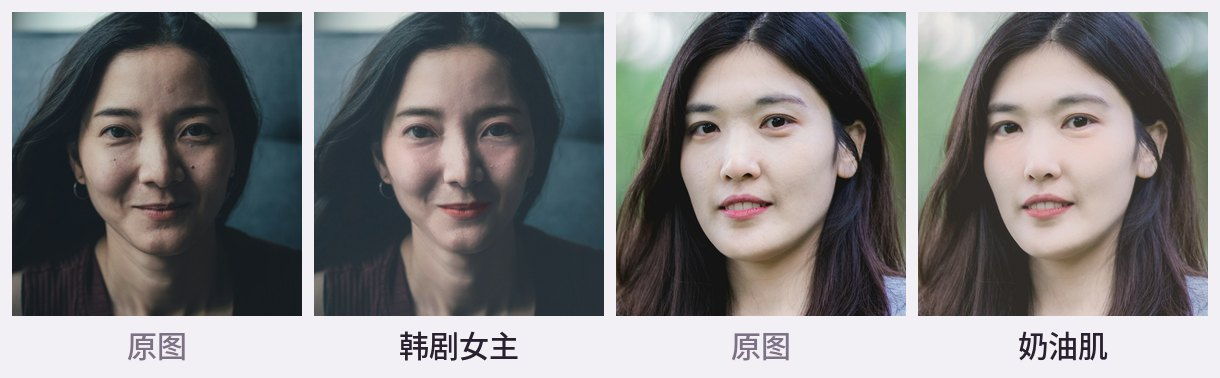
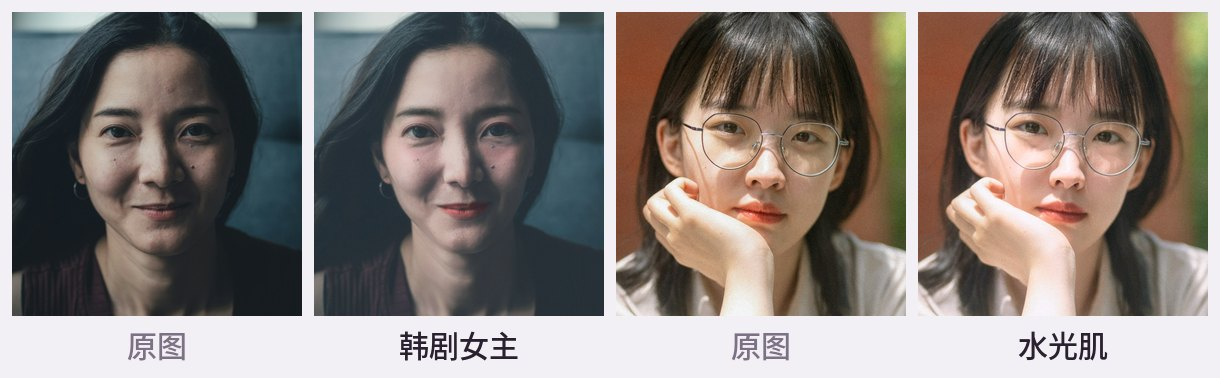
Part 8: distinct makeup per style; glasses and profile handling
- each style now has its own makeup, not just a color grade: blush
  placement and nose-tip flush, eyeliner tail direction (drooping puppy
  line for K-drama, long lifted line for cool tone), smoky outer corner,
  aegyo-sal on/off, brow depth, lip finish and more distinct lip shades
- thin high-contrast lines near the eyes (glasses frames) are excluded
  from the skin masks so they are no longer smoothed away
- makeup, reshaping and under-eye work fade out as the head turns;
  profiles only get skin work and grading
- checked on glasses, two-person and profile photos; 106 tests

Claude-Session: https://claude.ai/code/session_01FdC6Z7UUHnsXNkcQG1pK74

diff --git a/seoulglow/presets.py b/seoulglow/presets.py
@@ -23,10 +23,10 @@ class LipShade:
 
 
 LIP_SHADES: dict[str, LipShade] = {s.id: s for s in [
-    LipShade("peach", "蜜桃水光", (236, 112, 108)),
-    LipShade("milktea", "奶茶豆沙", (196, 116, 108)),
-    LipShade("strawberry", "草莓咬唇", (214, 58, 78)),
-    LipShade("rose", "冷调玫瑰", (176, 92, 112)),
+    LipShade("peach", "蜜桃水光", (238, 104, 96)),
+    LipShade("milktea", "奶茶豆沙", (186, 108, 98)),
+    LipShade("strawberry", "草莓咬唇", (216, 48, 72)),
+    LipShade("rose", "冷调玫瑰", (158, 70, 96)),
     LipShade("nude", "自然裸粉", (212, 124, 122)),
 ]}
 
@@ -68,6 +68,10 @@ class Preset:
     shadow_rgb: tuple[int, int, int]
     shadow: float          # eyeshadow
     liner: float           # eyeliner
+    liner_tail: float      # tail length (× eye distance)
+    liner_drop: float      # + = tail points down (puppy eye), − = lifted
+    shadow_outer: float    # smoky outer corner
+    blush_nose: float      # blush on the nose tip
     # skin clean-up (follows the 磨皮 slider)
     dark_circles: float
     folds: float
@@ -97,12 +101,13 @@ PRESETS: dict[str, Preset] = {p.id: p for p in [
         tagline="清透发光，蜜桃水光唇",
         description="像刚敷完面膜一样水润透亮，高光点在额头、鼻梁和苹果肌，低饱和的通透粉调。",
         swatch=("#FFE3E6", "#CDEBF6"),
-        smooth=0.65, texture=0.85, whiten=0.4, tone_a=1.0, tone_b=-2.5, glow=0.8, matte=0.0,
+        smooth=0.65, texture=0.85, whiten=0.4, tone_a=1.2, tone_b=-2.5, glow=0.85, matte=0.0,
         slim=0.5, eyes=0.38, nose=0.4,
-        lip="peach", lip_intensity=0.85, lip_gradient=0.55, lip_gloss=0.9,
-        blush_rgb=(240, 156, 156), blush=0.7, blush_height=0.55, blush_spread=1.0,
-        aegyo=0.55, eye_brighten=0.6, teeth=0.6,
-        brow_rgb=(122, 94, 80), brow=0.5, shadow_rgb=(234, 158, 138), shadow=0.55, liner=0.35,
+        lip="peach", lip_intensity=1.0, lip_gradient=0.35, lip_gloss=1.0,
+        blush_rgb=(244, 150, 140), blush=0.9, blush_height=0.6, blush_spread=1.3,
+        aegyo=0.5, eye_brighten=0.6, teeth=0.6,
+        brow_rgb=(122, 94, 80), brow=0.45, shadow_rgb=(238, 160, 132), shadow=0.6, liner=0.3,
+        liner_tail=0.03, liner_drop=0.0, shadow_outer=0.0, blush_nose=0.5,
         dark_circles=0.75, folds=0.6,
         grade=Grade(exposure=0.10, contrast=0.02, highlights=-0.08, shadows=0.22,
                     temperature=-0.08, tint=0.06, saturation=-0.08, vibrance=0.08, fade=0.0,
@@ -114,12 +119,13 @@ PRESETS: dict[str, Preset] = {p.id: p for p in [
         tagline="柔雾哑光，温柔奶茶调",
         description="细腻哑光的奶油肌，低对比的暖杏色和奶茶色滤镜，配奶茶豆沙雾面唇。",
         swatch=("#FFF1DD", "#F1CBB3"),
-        smooth=0.7, texture=0.85, whiten=0.35, tone_a=0.8, tone_b=-1.5, glow=0.15, matte=0.6,
-        slim=0.45, eyes=0.32, nose=0.35,
-        lip="milktea", lip_intensity=0.8, lip_gradient=0.3, lip_gloss=0.15,
-        blush_rgb=(236, 160, 140), blush=0.7, blush_height=0.55, blush_spread=1.15,
-        aegyo=0.45, eye_brighten=0.45, teeth=0.5,
-        brow_rgb=(126, 98, 84), brow=0.5, shadow_rgb=(206, 148, 122), shadow=0.6, liner=0.3,
+        smooth=0.75, texture=0.8, whiten=0.38, tone_a=0.6, tone_b=-1.0, glow=0.2, matte=0.45,
+        slim=0.45, eyes=0.3, nose=0.35,
+        lip="milktea", lip_intensity=1.0, lip_gradient=0.05, lip_gloss=0.0,
+        blush_rgb=(226, 150, 120), blush=0.75, blush_height=0.75, blush_spread=1.25,
+        aegyo=0.35, eye_brighten=0.45, teeth=0.5,
+        brow_rgb=(128, 100, 84), brow=0.6, shadow_rgb=(190, 132, 104), shadow=0.85, liner=0.3,
+        liner_tail=0.03, liner_drop=0.0, shadow_outer=0.25, blush_nose=0.0,
         dark_circles=0.75, folds=0.6,
         grade=Grade(exposure=0.18, contrast=-0.18, highlights=-0.30, shadows=0.25,
                     temperature=0.07, tint=0.04, saturation=-0.10, fade=0.05,
@@ -131,12 +137,13 @@ PRESETS: dict[str, Preset] = {p.id: p for p in [
         tagline="柔焦光晕，草莓咬唇妆",
         description="韩剧画面般的柔光和暖粉色调，眼下腮红、明显卧蚕和渐变咬唇，带一点胶片颗粒。",
         swatch=("#FFD5DE", "#FFE8C8"),
-        smooth=0.62, texture=0.85, whiten=0.35, tone_a=1.2, tone_b=-2.0, glow=0.5, matte=0.0,
-        slim=0.55, eyes=0.42, nose=0.45,
-        lip="strawberry", lip_intensity=0.9, lip_gradient=0.85, lip_gloss=0.5,
-        blush_rgb=(238, 150, 160), blush=0.75, blush_height=0.42, blush_spread=1.05,
-        aegyo=0.75, eye_brighten=0.65, teeth=0.6,
-        brow_rgb=(116, 88, 76), brow=0.55, shadow_rgb=(232, 146, 150), shadow=0.6, liner=0.4,
+        smooth=0.62, texture=0.85, whiten=0.38, tone_a=1.6, tone_b=-2.0, glow=0.4, matte=0.0,
+        slim=0.55, eyes=0.5, nose=0.45,
+        lip="strawberry", lip_intensity=1.0, lip_gradient=0.95, lip_gloss=0.5,
+        blush_rgb=(240, 130, 150), blush=0.85, blush_height=0.36, blush_spread=1.05,
+        aegyo=1.0, eye_brighten=0.75, teeth=0.6,
+        brow_rgb=(128, 98, 84), brow=0.4, shadow_rgb=(236, 140, 150), shadow=0.6, liner=0.6,
+        liner_tail=0.06, liner_drop=0.035, shadow_outer=0.0, blush_nose=0.8,
         dark_circles=0.75, folds=0.6,
         grade=Grade(exposure=0.12, contrast=-0.12, highlights=-0.20, shadows=0.20,
                     temperature=0.04, tint=0.08, saturation=-0.08, vibrance=0.05, fade=0.06,
@@ -148,12 +155,13 @@ PRESETS: dict[str, Preset] = {p.id: p for p in [
         tagline="冷白皮，低饱和高级感",
         description="冷白透亮的肤色和蓝灰色调，干净克制的杂志感，配冷调玫瑰唇。",
         swatch=("#E8EFF7", "#C8D3E4"),
-        smooth=0.65, texture=0.85, whiten=0.42, tone_a=0.5, tone_b=-3.0, glow=0.3, matte=0.2,
-        slim=0.55, eyes=0.35, nose=0.45,
-        lip="rose", lip_intensity=0.8, lip_gradient=0.4, lip_gloss=0.3,
-        blush_rgb=(226, 150, 166), blush=0.45, blush_height=0.5, blush_spread=0.95,
-        aegyo=0.4, eye_brighten=0.55, teeth=0.6,
-        brow_rgb=(104, 88, 82), brow=0.55, shadow_rgb=(188, 148, 158), shadow=0.5, liner=0.45,
+        smooth=0.65, texture=0.85, whiten=0.55, tone_a=-0.3, tone_b=-4.0, glow=0.2, matte=0.3,
+        slim=0.6, eyes=0.2, nose=0.5,
+        lip="rose", lip_intensity=1.0, lip_gradient=0.1, lip_gloss=0.1,
+        blush_rgb=(214, 164, 160), blush=0.25, blush_height=0.7, blush_spread=0.9,
+        aegyo=0.0, eye_brighten=0.5, teeth=0.6,
+        brow_rgb=(84, 72, 70), brow=0.8, shadow_rgb=(150, 118, 118), shadow=0.8, liner=0.85,
+        liner_tail=0.09, liner_drop=-0.03, shadow_outer=1.0, blush_nose=0.0,
         dark_circles=0.8, folds=0.6,
         grade=Grade(exposure=0.10, contrast=0.02, highlights=-0.15, shadows=0.18,
                     temperature=-0.15, tint=0.02, saturation=-0.12, fade=0.07,

diff --git a/seoulglow/makeup.py b/seoulglow/makeup.py
@@ -76,7 +76,7 @@ def _lip_gloss(img: np.ndarray, face: Face, regions: FaceRegions, amount: float)
 
 
 def blush(img: np.ndarray, face: Face, regions: FaceRegions, color: tuple[int, int, int],
-          intensity: float, height: float = 0.55, spread: float = 1.0) -> np.ndarray:
+          intensity: float, height: float = 0.55, spread: float = 1.0, nose: float = 0.0) -> np.ndarray:
     """Round, diffused blush on the apples of the cheeks (韩系苹果肌腮红).
 
     ``height`` places the blush between the eye line (0) and the nose tip (1);
@@ -90,6 +90,8 @@ def blush(img: np.ndarray, face: Face, regions: FaceRegions, color: tuple[int, i
         center = (face.eye_center(side) + face.y_axis * (height * face.eye_to_nose)
                   + face.outward(side) * 0.07 * iod)
         gaussian_ellipse(shape, center, 0.24 * iod * spread, 0.16 * iod * spread, face.angle_deg, out=weight)
+    if nose > 0.0:  # a touch on the nose tip (the Korean "flushed" look)
+        gaussian_ellipse(shape, face.pt(F.NOSE_TIP), 0.07 * iod, 0.055 * iod, face.angle_deg, out=weight, weight=0.7 * nose)
     weight = np.clip(weight, 0.0, 1.0) * regions.skin * float(np.clip(intensity, 0.0, 1.0))
 
     lab = ops.to_lab(img)
@@ -120,7 +122,7 @@ def brows(img: np.ndarray, face: Face, regions: FaceRegions, color: tuple[int, i
 
 
 def eyeshadow(img: np.ndarray, face: Face, regions: FaceRegions, color: tuple[int, int, int],
-              amount: float) -> np.ndarray:
+              amount: float, outer: float = 0.0) -> np.ndarray:
     """眼影: a soft wash on the upper lid, strongest at the lash line, with a small outer wing."""
     if amount <= 0.0:
         return img
@@ -143,10 +145,21 @@ def eyeshadow(img: np.ndarray, face: Face, regions: FaceRegions, color: tuple[in
     lab[..., 1] += (target[1] - lab[..., 1]) * weight * 0.42
     lab[..., 2] += (target[2] - lab[..., 2]) * weight * 0.42
     lab[..., 0] -= lab[..., 0] * 0.07 * weight
+    if outer > 0.0:  # deepen the outer third for a soft smoky corner
+        smoke = np.zeros(shape, np.float32)
+        for side, lid in (("right", F.RIGHT_UPPER_LID), ("left", F.LEFT_UPPER_LID)):
+            c = face.pt(lid[1]) + face.outward(side) * 0.02 * iod - y * 0.03 * iod
+            gaussian_ellipse(shape, c, 0.09 * iod, 0.05 * iod, face.angle_deg, out=smoke)
+        smoke = np.clip(smoke, 0.0, 1.0) * (1.0 - regions.eyes) * float(np.clip(amount * outer, 0.0, 1.0))
+        lab[..., 0] -= lab[..., 0] * 0.16 * smoke
+        lab[..., 1] += (target[1] - lab[..., 1]) * smoke * 0.3
+        lab[..., 2] += (target[2] - lab[..., 2]) * smoke * 0.3
+        weight = np.maximum(weight, smoke)
     return ops.from_lab_where(img, lab, weight)
 
 
-def eyeliner(img: np.ndarray, face: Face, regions: FaceRegions, amount: float) -> np.ndarray:
+def eyeliner(img: np.ndarray, face: Face, regions: FaceRegions, amount: float,
+             tail: float = 0.045, drop: float = -0.018) -> np.ndarray:
     """内眼线: a fine dark line along the outer part of the upper lash line with a short tail."""
     if amount <= 0.0:
         return img
@@ -154,8 +167,9 @@ def eyeliner(img: np.ndarray, face: Face, regions: FaceRegions, amount: float) -
     mask = np.zeros(shape, np.float32)
     for side, lid in (("right", F.RIGHT_UPPER_LID), ("left", F.LEFT_UPPER_LID)):
         pts = face.pts(lid)[:7] - y * 0.004 * iod        # outer three quarters of the lid
-        tail = pts[0] + face.outward(side) * 0.045 * iod - y * 0.018 * iod
-        mask = np.maximum(mask, polyline(shape, np.vstack([tail[None], pts]), thickness=max(1.0, 0.016 * iod)))
+        # drop > 0 pulls the tail down (soft "puppy" eye), drop < 0 lifts it (sharper, cooler)
+        end = pts[0] + face.outward(side) * tail * iod + y * drop * iod
+        mask = np.maximum(mask, polyline(shape, np.vstack([end[None], pts]), thickness=max(1.0, 0.016 * iod)))
     mask = blur(mask, max(0.5, 0.005 * iod)) * float(np.clip(amount, 0.0, 1.0))
     lab = ops.to_lab(img)
     lab[..., 0] -= np.clip(lab[..., 0] - 12.0, 0.0, None) * mask * 0.55

diff --git a/seoulglow/engine.py b/seoulglow/engine.py
@@ -127,24 +127,27 @@ def _local(img: np.ndarray, face: Face, indices: list[int], pad: float, fn) -> n
 
 
 def _beautify_face(img: np.ndarray, face: Face, p: Params) -> np.ndarray:
-    pr, m, iod = p.preset, p.makeup, face.iod
+    pr, iod = p.preset, face.iod
+    m = p.makeup * face.frontalness   # no makeup on faces turned away from the camera
     regions = FaceRegions(img, face)
     original = img
     img = skin.remove_spots(img, regions, p.smooth)
     img = skin.smooth(img, regions, p.smooth, pr.texture)
-    img = skin.under_eye(img, face, regions, pr.dark_circles * p.cleanup)
-    img = skin.soften_folds(img, face, regions, pr.folds * p.cleanup)
+    img = skin.under_eye(img, face, regions, pr.dark_circles * p.cleanup * face.frontalness)
+    img = skin.soften_folds(img, face, regions, pr.folds * p.cleanup * face.frontalness)
     img = skin.brighten(img, regions, p.whiten, pr.tone_a * p.tone_scale, pr.tone_b * p.tone_scale)
     img = skin.matte(img, regions, pr.matte * m)
     img = skin.glass_glow(img, face, regions, pr.glow * m, reference=original)
-    img = makeup.blush(img, face, regions, pr.blush_rgb, pr.blush * m, pr.blush_height, pr.blush_spread)
+    img = makeup.blush(img, face, regions, pr.blush_rgb, pr.blush * m, pr.blush_height, pr.blush_spread,
+                       nose=pr.blush_nose)
 
     eyes = F.RIGHT_EYE + F.LEFT_EYE
     brows = F.RIGHT_BROW + F.LEFT_BROW
     img = _local(img, face, brows, 0.12 * iod, lambda s, f, r: makeup.brows(s, f, r, pr.brow_rgb, pr.brow * m))
     img = _local(img, face, eyes + brows, 0.15 * iod, lambda s, f, r: makeup.eyeshadow(
-        s, f, r, pr.shadow_rgb, pr.shadow * m))
-    img = _local(img, face, eyes, 0.12 * iod, lambda s, f, r: makeup.eyeliner(s, f, r, pr.liner * m))
+        s, f, r, pr.shadow_rgb, pr.shadow * m, outer=pr.shadow_outer))
+    img = _local(img, face, eyes, 0.12 * iod, lambda s, f, r: makeup.eyeliner(
+        s, f, r, pr.liner * m, tail=pr.liner_tail, drop=pr.liner_drop))
     if p.lip_rgb is not None:
         img = _local(img, face, F.LIPS_OUTER, 0.15 * iod, lambda s, f, r: makeup.lips(
             s, f, r, p.lip_rgb, pr.lip_intensity * m, pr.lip_gradient, pr.lip_gloss * m))
@@ -170,9 +173,10 @@ def process(rgb: np.ndarray, preset_id: str | None, adj: Adjustments | None,
         img[y0:y1, x0:x1] = _beautify_face(crop, face.shifted(-x0, -y0), p)
 
     for face in usable:  # geometry last, so makeup moves together with the face
-        img = reshape.slim_face(img, face, p.slim)
-        img = reshape.slim_nose(img, face, p.nose)
-        img = reshape.enlarge_eyes(img, face, p.eyes)
+        k = face.frontalness
+        img = reshape.slim_face(img, face, p.slim * k)
+        img = reshape.slim_nose(img, face, p.nose * k)
+        img = reshape.enlarge_eyes(img, face, p.eyes * k)
 
     img = color.apply_grade(img, p.preset.grade, p.filter)
     return to_uint8(img)

diff --git a/seoulglow/masks.py b/seoulglow/masks.py
@@ -219,6 +219,23 @@ class FaceRegions:
         m = np.maximum.reduce([dilate(eyes, 0.01 * self.iod), dilate(brows, 0.045 * self.iod), self.lips_outer])
         return blur(m, 0.015 * self.iod)
 
+    @cached_property
+    def fine_lines(self) -> np.ndarray:
+        """Thin high-contrast structures around the eyes: glasses frames, stray hair.
+
+        Skin retouching would treat a thin frame as a blemish and erase it, so these
+        pixels are removed from the skin masks. Pores (contrast ~0.02) stay below the
+        threshold; dark circles are too broad to be picked up.
+        """
+        f, iod = self.face, self.iod
+        zone = np.zeros(self.shape, np.float32)
+        gaussian_ellipse(self.shape, f.eye_mid, 0.95 * iod, 0.42 * iod, f.angle_deg, out=zone)
+        zone = smoothstep(0.25, 0.5, zone)
+        lum = ops.luminance(self.img)
+        detail = np.abs(lum - ops.gaussian(lum, max(1.5, 0.03 * iod)))
+        lines = smoothstep(0.045, 0.09, detail) * zone
+        return np.clip(blur(dilate(lines, max(1.0, 0.012 * iod)), 0.01 * iod), 0.0, 1.0)
+
     # -- adaptive skin color model ------------------------------------------ #
     def _skin_samples(self) -> np.ndarray:
         f, iod = self.face, self.iod
@@ -277,6 +294,7 @@ class FaceRegions:
         """Tight skin mask (face + neck): used for smoothing, spots, glow and blush."""
         region = blur(np.maximum(self.face_poly, self.neck_poly), 0.04 * self.iod)
         mask = region * np.clip(self.skin_probability * 1.25, 0.0, 1.0) * (1.0 - self.features)
+        mask = mask * (1.0 - self.fine_lines)
         return np.clip(mask, 0.0, 1.0).astype(np.float32)
 
     @cached_property

diff --git a/tests/test_masks.py b/tests/test_masks.py
@@ -70,3 +70,23 @@ def test_wide_skin_mask_reaches_neck(regions):
     neck_point = (S.CX, S.CY + S.B + 40)
     assert at(regions.skin_wide, *neck_point) > at(regions.skin, *neck_point)
     assert len(F.NOSE_LOWER) == 16
+
+
+def test_frontal_face_is_frontal_and_turned_face_is_not(face):
+    assert face.frontalness == 1.0
+    turned = face.landmarks.copy()
+    turned[F.NOSE_TIP, 0] += 0.6 * face.iod          # nose far off the eye midpoint = profile
+    assert F.Face(turned).frontalness == 0.0
+
+
+def test_thin_lines_near_the_eyes_are_protected(img, face):
+    """A glasses frame must not be smoothed away as if it were a blemish."""
+    import cv2
+    from seoulglow.masks import FaceRegions
+    with_frame = img.copy()
+    y = int(S.EYE_Y + 34)
+    cv2.line(with_frame, (int(S.CX - 120), y), (int(S.CX + 120), y), (0.2, 0.2, 0.22), 2)
+    regions = FaceRegions(with_frame, face)
+    assert regions.fine_lines[y, int(S.CX - 100)] > 0.8
+    assert regions.skin[y, int(S.CX - 100)] < 0.2
+    assert FaceRegions(img, face).fine_lines[int(S.CY + 60), int(S.CX - 90)] < 0.05   # plain cheek

diff --git a/seoulglow/face.py b/seoulglow/face.py
@@ -147,6 +147,19 @@ class Face:
         return float(np.linalg.norm(self.pt(a) - self.pt(b)))
 
     @cached_property
+    def frontalness(self) -> float:
+        """1.0 for a face looking at the camera, falling to 0.0 for a profile.
+
+        Landmarks on the far side of a turned face are guesses, so makeup and
+        reshaping are faded out (a brow drawn on a profile lands on the temple).
+        """
+        # Frontal: the nose tip sits under the midpoint of the eyes. Turned: it slides
+        # sideways while the eyes move closer together in the image.
+        offset = abs(float(np.dot(self.pt(NOSE_TIP) - self.eye_mid, self.x_axis))) / self.iod
+        t = float(np.clip((offset - 0.28) / (0.55 - 0.28), 0.0, 1.0))
+        return 1.0 - t * t * (3.0 - 2.0 * t)
+
+    @cached_property
     def brow_mid(self) -> np.ndarray:
         return (self.pts(RIGHT_BROW).mean(axis=0) + self.pts(LEFT_BROW).mean(axis=0)) / 2.0
 

diff --git a/seoulglow/skin.py b/seoulglow/skin.py
@@ -102,7 +102,7 @@ def under_eye(img: np.ndarray, face: Face, regions: FaceRegions, amount: float) 
         top = pts + y * 0.035 * iod
         bottom = pts[::-1] + y * 0.27 * iod
         band = np.maximum(band, fill_poly(regions.shape, np.vstack([top, bottom])))
-    band = blur(band, 0.05 * iod) * (1.0 - regions.eyes) * regions.face_poly
+    band = blur(band, 0.05 * iod) * (1.0 - regions.eyes) * regions.face_poly * (1.0 - regions.fine_lines)
     lab = ops.to_lab(img)
     ref = _cheek_reference(lab, face, regions)
     if ref is None:

diff --git a/README.md b/README.md
@@ -18,16 +18,16 @@
 
 以上全部是**本地精修模式的默认参数**，没有用 AI 大模型，也没有手动修改。
 
-> 示例照片来自 [Unsplash](https://unsplash.com/license)（可免费使用和修改），摄影师：Peter John Manlapig、panitan punpuang、Minh Dang、Condor Wei。
+> 示例照片来自 [Unsplash](https://unsplash.com/license)（可免费使用和修改），来自摄影师 Peter John Manlapig、panitan punpuang、Minh Dang、Condor Wei 等。
 
 ## 能做什么
 
 | 风格 | 效果 |
 |------|------|
-| 水光肌 | 水润带一点油光感的皮肤，鼻梁、颧骨、唇峰有真实高光，蜜桃色唇 |
-| 奶油肌 | 柔雾哑光，低对比的暖杏 / 奶茶色调 |
-| 韩剧女主 | 柔焦光晕、暖粉色调、眼下腮红、卧蚕、草莓咬唇，带一点胶片颗粒 |
-| 清冷感 | 冷白皮，低饱和的蓝灰色调，冷调玫瑰唇 |
+| 水光肌 | 油润的真实高光，大面积蜜桃腮红带到鼻尖，蜜桃水光唇，细短眼线 |
+| 奶油肌 | 柔焦缎面肌，暖棕眼影，位置偏低的杏色腮红，奶茶色雾面满涂唇 |
+| 韩剧女主 | 眼下腮红 + 鼻尖腮红，明显卧蚕，下垂的无辜眼线，大眼，草莓渐变咬唇 |
+| 清冷感 | 冷白皮，不画卧蚕，几乎看不出的裸色腮红，深色眉，眼尾烟熏 + 上扬长眼线，冷调玫瑰雾面唇 |
 
 每种风格都能再细调：**磨皮、美白、瘦脸、大眼、瘦鼻、妆容、滤镜**，还能换 5 种口红色号。按住「看原图」随时对比。多人合照里的每张脸都会处理。
 
@@ -97,6 +97,7 @@ docker run -p 8000:8000 --env-file .env seoulglow
 - **水光是"油润"不是"发白"**：先从磨皮前的原图里提取皮肤本来的高光并放大，再在鼻梁、鼻尖、颧骨、唇峰加小而集中的高光点，而不是给整张脸罩一层白雾。
 - **磨皮用频率分离**：只抹平中频的不均匀（痘印、暗沉），毛孔级的细纹理保留约 85%，皮肤不会像塑料。
 - **口红是"染"不是"涂"**：唇色跟着每个像素原本的明暗走（阴影里的上唇更暗、更不饱和），嘴角渐隐，这样不会像蜡笔画上去。
+- **认得出眼镜和侧脸**：眼睛周围细而高对比的线条（镜框、碎发）会从皮肤蒙版里排除，不会被当成痘痘磨掉；脸转得越侧，妆容和变形越弱，纯侧脸只做皮肤和调色，因为侧脸的关键点不可靠。
 - **先修颜、后变形**：所有妆容用原始关键点画好，最后再统一做瘦脸大眼，妆容会跟着脸一起动，不会错位。
 - **痘痘也是皮肤**：肤色模型会把痘痘当成"不是皮肤"排除掉，所以对肤色概率图做低分辨率形态学闭运算，把小洞补上。
 - **快**：小区域效果（唇、眼、牙）只在局部框里计算；调色用 LUT（比逐像素计算快约 4.5 倍）；调节滑块时只传 1280px 预览图（约 0.2–0.6 秒），保存时才处理高清图。
@@ -139,7 +140,8 @@ pytest -q
 - [x] 第 5 部分：加强 P 图：瘦鼻、小 V 下巴、去黑眼圈、淡化法令纹、韩系眉眼妆，默认幅度调到看得出来
 - [x] 第 6 部分：自动化测试 + GitHub Actions + Docker + 接口文档
 - [x] 第 7 部分：按反馈调整：嘴唇不再发白、磨皮保留更多皮肤纹理、水光肌改成油润的真实高光、去掉韩式证件照
-- [ ] 之后：更多场景实测（戴眼镜、侧脸、多人合照、逆光）、大脸特写的高清导出提速（半分辨率计算 + 细节回填）、本地换背景（人像分割）
+- [x] 第 8 部分：四种风格各有自己的妆容画法（参考美妆教程）；戴眼镜不再抹掉镜框；侧脸自动不上妆、不变形；多人合照实测
+- [ ] 之后：大脸特写的高清导出提速（半分辨率计算 + 细节回填）、本地换背景（人像分割）
 
 ## 隐私
 
